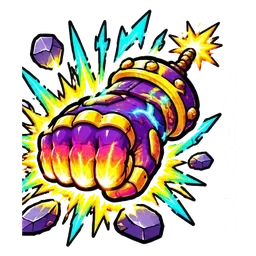
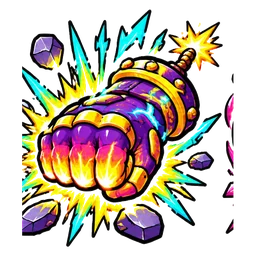
fix(gear art): GAUNTLET ships as gauntlet-v2 (stray sliver cleared; art is immutable), grimoire restored

diff --git a/src/components/markGlyphsRolled.jsx b/src/components/markGlyphsRolled.jsx
@@ -81,7 +81,7 @@ export const ROLLED_GLYPHS = {
   'mk-comet': ART('comet'),
   'mk-meltdown': ART('meltdown'),
   'mk-genie': ART('genie'),
-  'mk-gauntlet': ART('gauntlet'),
+  'mk-gauntlet': ART('gauntlet-v2'),
   'mk-grimoire': ART('grimoire'),
   'mk-supernova': ART('supernova'),
   // ---- THE UNLISTED (oct17): found, never rolled — painted stickers in public/gear/unlisted/ ----
